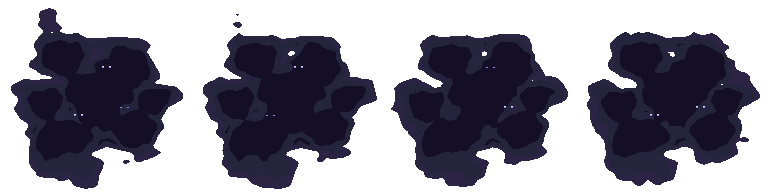
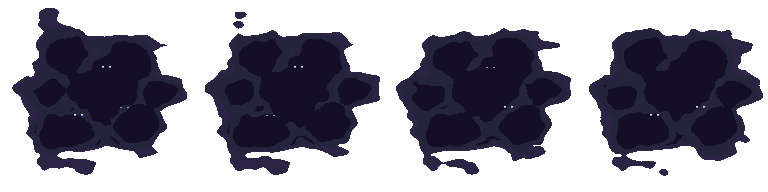
nightmare_fog.png: the mass centred on the frame (Environment Code: on an east start it sat below the bridge line)
The cloud lobes are balanced round the centre and shifted to cancel the noise's lean, so every frame's mass sits within ~2 px of the frame centre: the bridge enters the fog's middle from any side, no per-direction nudge. Same layout.

diff --git a/Project_T/tools/environment_art/heartwood_grounds.html b/Project_T/tools/environment_art/heartwood_grounds.html
@@ -2256,13 +2256,13 @@ function laneBridge(o) {
 // end disappears (it replaces the islet), with pale cold eyes that open now and then. Clouds stepped Shade → Night → Dread (never Void: a void-dark
 // core read as a hole into the sky), drifting a little each frame, with faint Wraithlight eyes that blink.
 function nightmareFog(f) {
-  const S = 192, L = new Img(S, S), s = SEED + 5200, c = S / 2, ph = f * Math.PI / 2;
-  const puffs = [[0, 0, 58], [34, -30, 36], [38, 32, 34], [-30, -40, 38], [-28, 44, 40], [56, 2, 26], [-52, 4, 32]];
+  const S = 192, L = new Img(S, S), s = SEED + 5200, c = S / 2, ph = f * Math.PI / 2, cx = c + 4, cy = c - 5;  // cx, cy: the noise leans the mass left and down; this puts it back on the frame's centre
+  const puffs = [[0, 0, 58], [34, -32, 36], [36, 32, 35], [-30, -38, 38], [-30, 38, 38], [56, 0, 26], [-54, 0, 30]];  // balanced round the centre: the bridge enters its middle from any side
   for (let y = 0; y < S; y++) for (let x = 0; x < S; x++) {
     let v = -1;
     puffs.forEach(([px, py, r], i) => {
       const dx = px + Math.cos(ph + i) * 2, dy = py + Math.sin(ph + i * 1.7) * 2;
-      v = Math.max(v, 1 - Math.hypot(x - c - dx, (y - c - dy) * 1.1) / r);
+      v = Math.max(v, 1 - Math.hypot(x - cx - dx, (y - cy - dy) * 1.1) / r);
     });
     v += (pnoise(x, y, 22, s) - .5) * .5 + (pnoise(x + Math.cos(ph) * 3, y + Math.sin(ph) * 3, 9, s + 1) - .5) * .22;
     // Wisps (Theme Discussion: not a flat lobed blob): long streaks drifting off the edge, only out where it thins.
